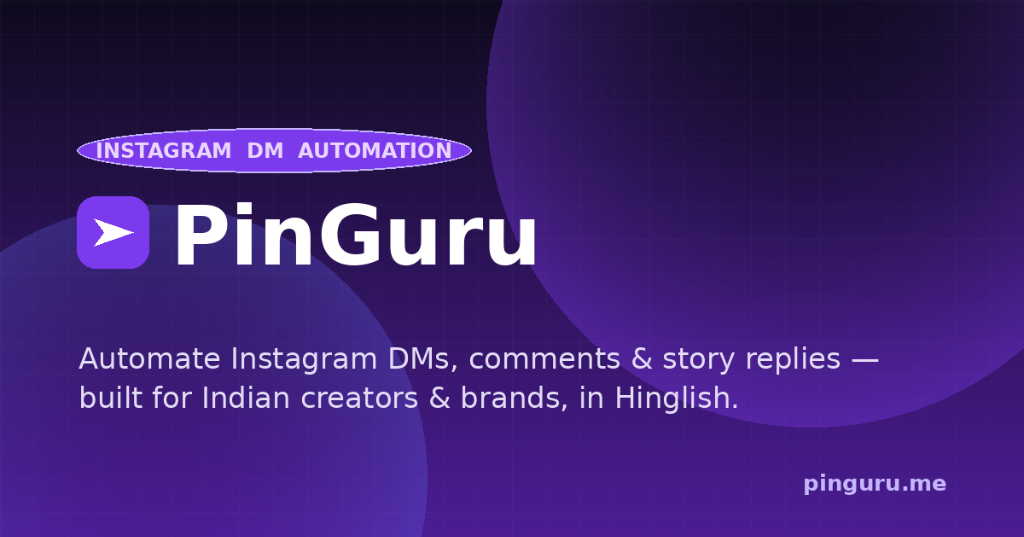
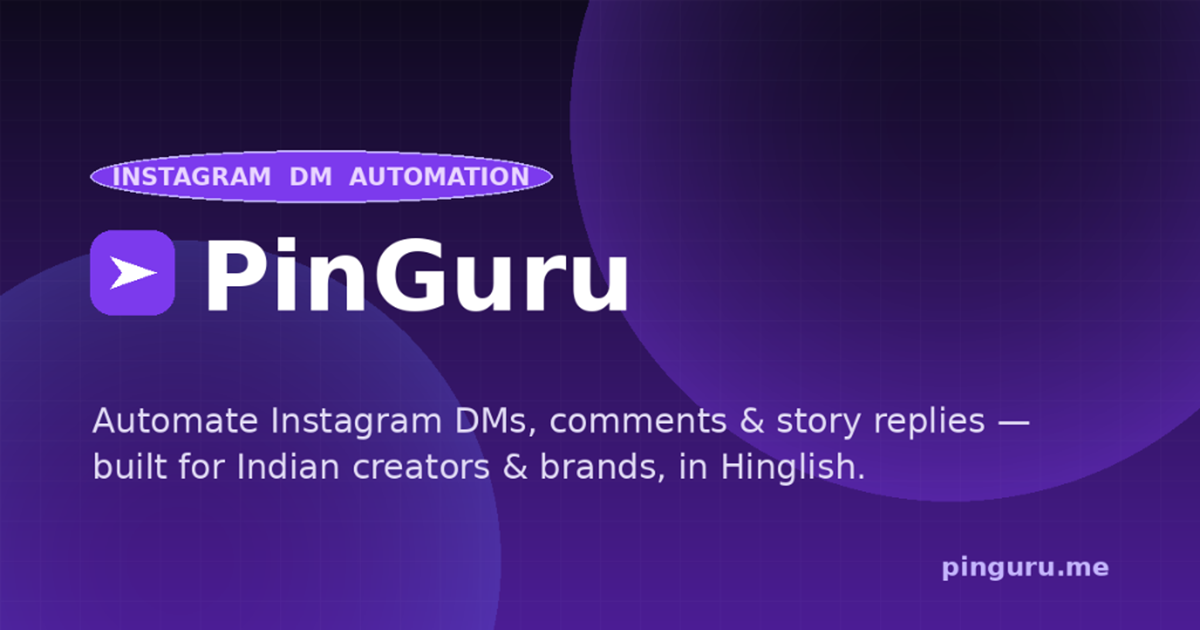
feat: add RuleBuilderModal component, useFocusTrap hook, and OG preview image

Changed region(s): [[0.1875, 0.6555, 0.2188, 0.6853]]

diff --git a/src/hooks/useFocusTrap.ts b/src/hooks/useFocusTrap.ts
@@ -2,10 +2,12 @@ import { useEffect, useRef } from 'react';
 
 /**
  * Focus trap hook for accessible modal dialogs
- * - Stores previous activeElement on open and restores it on close
- * - Moves focus to first focusable element inside the modal on open
- * - Wraps Tab / Shift+Tab at the boundary
+ * - Captures the triggering element only when the modal transitions from closed to open
+ * - Sets initial focus only on open, without stealing focus if an element inside is already focused
+ * - Traps Tab / Shift+Tab within the modal container boundaries
  * - Listens for Escape key to close the modal
+ * - Restores focus to the triggering element only when the modal actually closes
+ * - Stable against caller re-renders and unmemoized callbacks
  */
 export function useFocusTrap(
   containerRef: React.RefObject<HTMLElement | null>,
@@ -13,47 +15,86 @@ export function useFocusTrap(
   onClose?: () => void
 ) {
   const triggerElementRef = useRef<HTMLElement | null>(null);
+  const wasOpenRef = useRef(false);
+  const onCloseRef = useRef(onClose);
+
+  // Always keep latest onClose callback without re-triggering effects
+  onCloseRef.current = onClose;
 
   useEffect(() => {
-    if (!isOpen) return;
+    // Modal transitioned from closed -> open
+    if (isOpen && !wasOpenRef.current) {
+      wasOpenRef.current = true;
+      triggerElementRef.current = document.activeElement as HTMLElement | null;
 
-    // 1. Store the element that triggered the modal open
-    triggerElementRef.current = document.activeElement as HTMLElement | null;
+      const container = containerRef.current;
+      if (container) {
+        // Only set initial focus if focus is not already inside the modal
+        if (!container.contains(document.activeElement)) {
+          const selector =
+            'button:not([disabled]), [href], input:not([disabled]), select:not([disabled]), textarea:not([disabled]), [tabindex]:not([tabindex="-1"])';
+          const focusables = Array.from(container.querySelectorAll<HTMLElement>(selector)).filter(
+            (el) => el.offsetParent !== null || el.offsetWidth > 0 || el.offsetHeight > 0
+          );
+
+          if (focusables.length > 0) {
+            const autoFocusEl = focusables.find((el) => el.hasAttribute('autofocus'));
+            (autoFocusEl || focusables[0]).focus();
+          } else {
+            container.focus();
+          }
+        }
+      }
+    }
+
+    // Modal transitioned from open -> closed
+    if (!isOpen && wasOpenRef.current) {
+      wasOpenRef.current = false;
+      if (triggerElementRef.current && typeof triggerElementRef.current.focus === 'function') {
+        const el = triggerElementRef.current;
+        triggerElementRef.current = null;
+        requestAnimationFrame(() => {
+          el.focus();
+        });
+      }
+    }
+  }, [isOpen, containerRef]);
+
+  // Clean up on unmount if modal was open
+  useEffect(() => {
+    return () => {
+      if (wasOpenRef.current && triggerElementRef.current && typeof triggerElementRef.current.focus === 'function') {
+        const el = triggerElementRef.current;
+        triggerElementRef.current = null;
+        requestAnimationFrame(() => {
+          el.focus();
+        });
+      }
+    };
+  }, []);
+
+  // Keyboard navigation trap (Tab & Escape) active while open
+  useEffect(() => {
+    if (!isOpen) return;
 
     const container = containerRef.current;
     if (!container) return;
 
-    const getFocusableElements = () => {
-      if (!container) return [];
-      const selector =
-        'button:not([disabled]), [href], input:not([disabled]), select:not([disabled]), textarea:not([disabled]), [tabindex]:not([tabindex="-1"])';
-      return Array.from(container.querySelectorAll<HTMLElement>(selector)).filter(
-        (el) => el.offsetParent !== null || el.offsetWidth > 0 || el.offsetHeight > 0
-      );
-    };
-
-    // 2. Move focus inside the modal on open
-    const timer = setTimeout(() => {
-      const focusables = getFocusableElements();
-      if (focusables.length > 0) {
-        const autoFocusEl = focusables.find((el) => el.hasAttribute('autofocus'));
-        (autoFocusEl || focusables[0]).focus();
-      } else {
-        container.focus();
-      }
-    }, 50);
-
-    // 3. Handle keyboard boundary trapping & Escape key
     const handleKeyDown = (e: KeyboardEvent) => {
       if (e.key === 'Escape') {
         e.preventDefault();
         e.stopPropagation();
-        onClose?.();
+        onCloseRef.current?.();
         return;
       }
 
       if (e.key === 'Tab') {
-        const focusables = getFocusableElements();
+        const selector =
+          'button:not([disabled]), [href], input:not([disabled]), select:not([disabled]), textarea:not([disabled]), [tabindex]:not([tabindex="-1"])';
+        const focusables = Array.from(container.querySelectorAll<HTMLElement>(selector)).filter(
+          (el) => el.offsetParent !== null || el.offsetWidth > 0 || el.offsetHeight > 0
+        );
+
         if (focusables.length === 0) {
           e.preventDefault();
           return;
@@ -77,18 +118,10 @@ export function useFocusTrap(
     };
 
     document.addEventListener('keydown', handleKeyDown, true);
-
     return () => {
-      clearTimeout(timer);
       document.removeEventListener('keydown', handleKeyDown, true);
-      // 4. Return focus to the trigger element when modal closes
-      if (triggerElementRef.current && typeof triggerElementRef.current.focus === 'function') {
-        requestAnimationFrame(() => {
-          triggerElementRef.current?.focus();
-        });
-      }
     };
-  }, [isOpen, onClose, containerRef]);
+  }, [isOpen, containerRef]);
 
   return triggerElementRef;
 }

diff --git a/src/components/rules/RuleBuilderModal.tsx b/src/components/rules/RuleBuilderModal.tsx
@@ -628,8 +628,13 @@ export const RuleBuilderModal: React.FC<RuleBuilderModalProps> = ({
     finally { setLoading(false); }
   };
 
+  const handleModalClose = useCallback(() => {
+    onClose();
+    reset();
+  }, [onClose]);
+
   return (
-    <Modal id="rule-builder-modal" open={open} onClose={()=>{onClose();reset();}} title={editing ? 'Edit Automation Rule' : (step==='choose'?'Create Automation Rule':'Configure Rule')} maxWidth={step==='details' ? 'max-w-5xl' : 'max-w-2xl'}>
+    <Modal id="rule-builder-modal" open={open} onClose={handleModalClose} title={editing ? 'Edit Automation Rule' : (step==='choose'?'Create Automation Rule':'Configure Rule')} maxWidth={step==='details' ? 'max-w-5xl' : 'max-w-2xl'}>
 
       {/* STEP 1 */}
       {step==='choose'&&(
